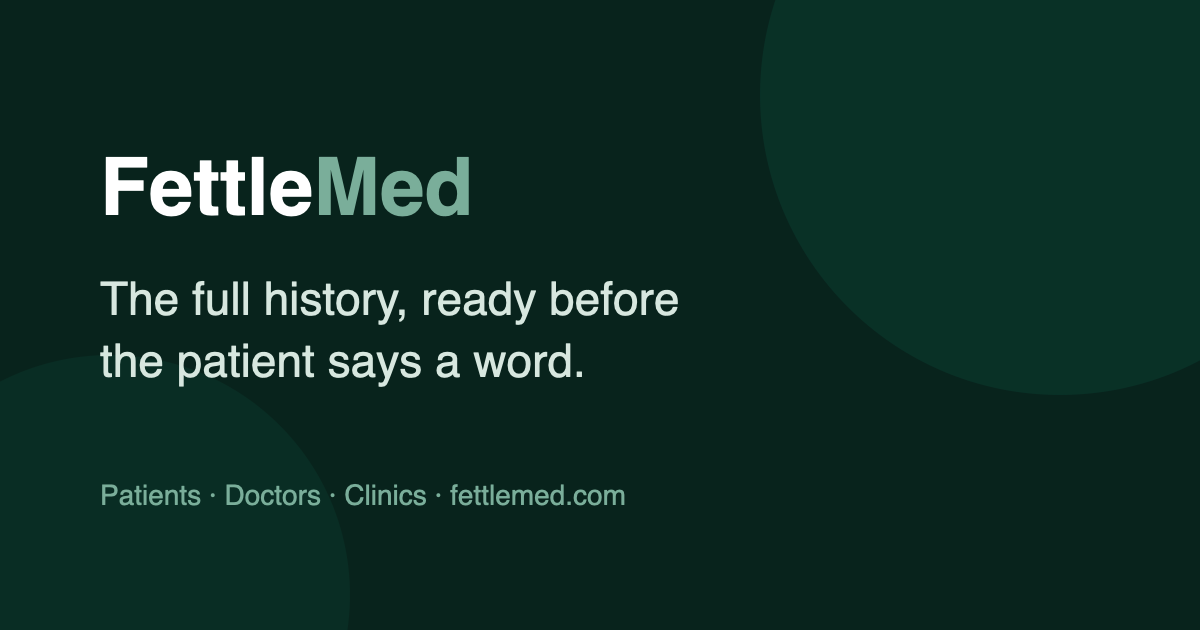
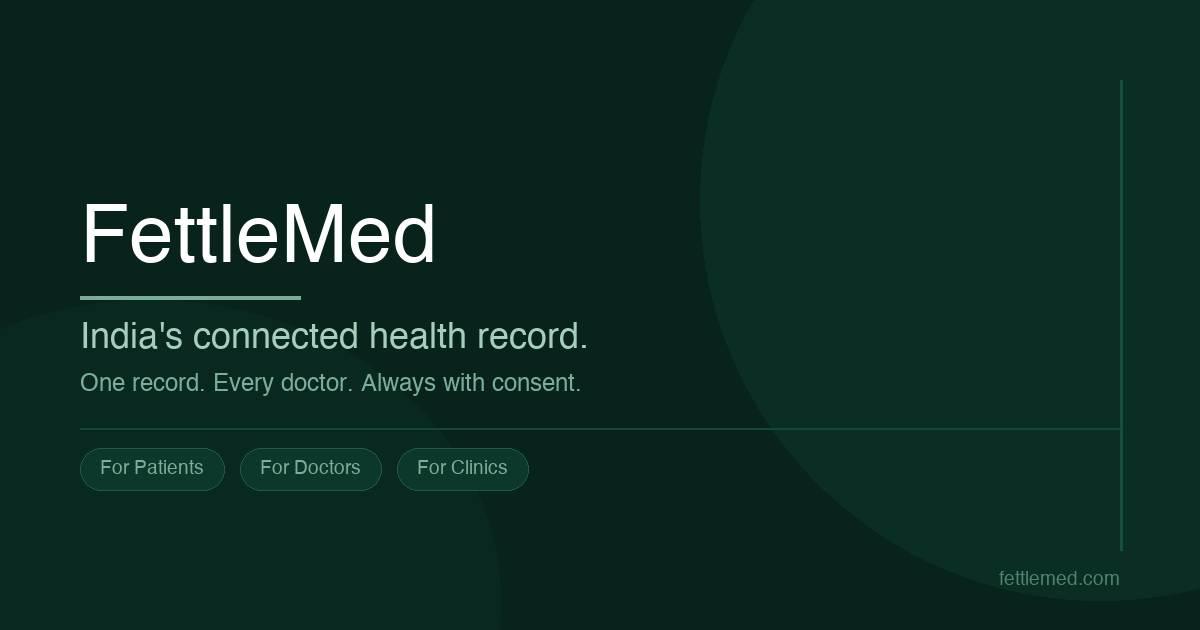
UX: unify CTAs to Join the Pilot, add OG image, strengthen nav & comparison
- Rename all CTA buttons site-wide from "Join the Waitlist" / "Join the
  Clinical Pilot" / "Join the Clinic Pilot" to "Join the Pilot" — one
  consistent name for the programme across all pages and components
- Create public/og.png (1200×630) — branded dark-green OG image for
  social sharing (Twitter/X, WhatsApp, LinkedIn cards were broken)
- Add active nav indicator: desktop NavLink gets a pine-600 underline
  bar on the current page so users always know where they are
- Strengthen ComparisonTable FettleMed column (pine-100/70 bg, pine-200
  border) and add footnote defining EMR/HIS and Health App for Indian readers
- Add Sentry TODO comment in ErrorBoundary for pre-launch wiring
- Wire trackPageView is still pending (separate task)

diff --git a/src/components/common/Layout/Layout.tsx b/src/components/common/Layout/Layout.tsx
@@ -71,8 +71,10 @@ export function Layout({ children }: { children: React.ReactNode }) {
                 end={link.path === "/"}
                 onMouseEnter={() => preloadRoutes[link.path]?.()}
                 className={({ isActive }) => cn(
-                  "text-sm font-medium tracking-wide transition-colors duration-150 ease-out whitespace-nowrap",
-                  isActive ? "text-pine-600" : "text-dim hover:text-pine-600"
+                  "text-sm font-medium tracking-wide transition-colors duration-150 ease-out whitespace-nowrap relative",
+                  isActive
+                    ? "text-pine-700 after:absolute after:bottom-[-4px] after:left-0 after:right-0 after:h-[2px] after:rounded-full after:bg-pine-600"
+                    : "text-dim hover:text-pine-600"
                 )}
               >
                 {link.name}
@@ -80,7 +82,7 @@ export function Layout({ children }: { children: React.ReactNode }) {
             ))}
             <div className="h-5 w-[1px] bg-pine-100 mx-1 lg:mx-2" />
             <Button variant="animated" onClick={() => openWaitlist(audienceRole)} className="bg-pine-900 hover:bg-pine-800 text-white rounded-lg shadow-sm text-xs lg:text-sm h-9 lg:h-10 px-4 lg:px-6 font-medium transition-colors">
-              Join Waitlist
+              Join the Pilot
             </Button>
           </nav>
 
@@ -113,7 +115,7 @@ export function Layout({ children }: { children: React.ReactNode }) {
                 </NavLink>
               ))}
               <div className="pt-6 border-t border-stone-200 flex flex-col gap-4">
-                <Button variant="animated" size="lg" onClick={() => { setIsMobileMenuOpen(false); openWaitlist(audienceRole); }} className="w-full bg-pine-900 hover:bg-pine-800 text-white rounded-xl h-14 font-medium">Join Waitlist</Button>
+                <Button variant="animated" size="lg" onClick={() => { setIsMobileMenuOpen(false); openWaitlist(audienceRole); }} className="w-full bg-pine-900 hover:bg-pine-800 text-white rounded-xl h-14 font-medium">Join the Pilot</Button>
               </div>
             </nav>
           </div>
@@ -152,7 +154,7 @@ export function Layout({ children }: { children: React.ReactNode }) {
                 <Link to="/about" className="text-sm font-medium text-pine-200 hover:text-white transition-colors">About</Link>
                 <Link to="/about#team" className="text-sm font-medium text-pine-200 hover:text-white transition-colors">Team</Link>
                 <Link to="/about#contact" className="text-sm font-medium text-pine-200 hover:text-white transition-colors">Contact</Link>
-                <Link to="/waitlist" className="text-sm font-medium text-pine-200 hover:text-white transition-colors">Join the Waitlist</Link>
+                <Link to="/waitlist" className="text-sm font-medium text-pine-200 hover:text-white transition-colors">Join the Pilot</Link>
              </nav>
 
              {/* Column 3: Legal */}

diff --git a/src/components/sections/ComparisonTable/ComparisonTable.tsx b/src/components/sections/ComparisonTable/ComparisonTable.tsx
@@ -41,8 +41,8 @@ export const ComparisonTable = ({ heading = "How FettleMed compares" }: { headin
                   <th className="text-center py-3 w-[22%] border-b border-stone-100">
                     <span className="text-[10px] font-semibold tracking-normal uppercase text-stone-400 whitespace-nowrap">Health App</span>
                   </th>
-                  <th className="text-center py-3 w-[22%] bg-pine-50/60 border-l border-r border-t border-b border-pine-100 rounded-tr-xl">
-                    <span className="text-[10px] font-semibold tracking-normal uppercase text-pine-700 whitespace-nowrap">FettleMed</span>
+                  <th className="text-center py-3 w-[22%] bg-pine-100/70 border-l border-r border-t border-b border-pine-200 rounded-tr-xl">
+                    <span className="text-[10px] font-semibold tracking-normal uppercase text-pine-800 whitespace-nowrap">FettleMed ✦</span>
                   </th>
                 </tr>
               </thead>
@@ -58,7 +58,7 @@ export const ComparisonTable = ({ heading = "How FettleMed compares" }: { headin
                     <td className="text-center px-3 py-3.5">
                       <span className="inline-flex justify-center"><StatusIcon value={app} /></span>
                     </td>
-                    <td className={`text-center px-3 py-3.5 bg-pine-50/60 border-l border-r border-pine-100 ${i === rows.length - 1 ? "border-b rounded-br-xl" : ""}`}>
+                    <td className={`text-center px-3 py-3.5 bg-pine-100/70 border-l border-r border-pine-200 ${i === rows.length - 1 ? "border-b rounded-br-xl" : ""}`}>
                       <span className="inline-flex justify-center"><StatusIcon value={fm} /></span>
                     </td>
                   </tr>
@@ -72,6 +72,9 @@ export const ComparisonTable = ({ heading = "How FettleMed compares" }: { headin
               <span className="flex items-center gap-1.5"><Minus className="w-3 h-3 text-amber-400" /> Partial</span>
               <span className="flex items-center gap-1.5"><X className="w-3 h-3 text-stone-400" /> No</span>
             </div>
+            <p className="text-[11px] text-dim-2 mt-3 leading-relaxed">
+              * EMR / HIS refers to traditional clinic management systems (e.g. Practo, Dr. Patti, hospital EMRs). Health App refers to consumer wellness apps (e.g. Apple Health, Google Fit).
+            </p>
           </div>
       </div>
     </section>

diff --git a/src/pages/About.tsx b/src/pages/About.tsx
@@ -171,7 +171,7 @@ export default function About() {
                   onClick={() => openWaitlist()}
                   className="h-12 px-8 text-base bg-white text-pine-900 hover:bg-pine-50 rounded-xl font-medium shadow-lg focus-visible:ring-2 focus-visible:ring-pine-600 focus-visible:ring-offset-2"
                 >
-                  Join the Waitlist
+                  Join the Pilot
                 </Button>
                 <a
                   href="#team"
@@ -360,7 +360,7 @@ export default function About() {
                 onClick={() => openWaitlist()}
                 className="h-12 px-10 text-base bg-white text-pine-900 hover:bg-pine-50 rounded-xl font-medium shadow-lg focus-visible:ring-2 focus-visible:ring-pine-600 focus-visible:ring-offset-2 focus-visible:ring-offset-pine-900"
               >
-                Join the Waitlist
+                Join the Pilot
               </Button>
             </FadeIn>
           </div>

diff --git a/src/pages/Waitlist.tsx b/src/pages/Waitlist.tsx
@@ -21,7 +21,7 @@ export default function Waitlist() {
 
   return (
     <>
-      <SEO title="Join the Waitlist" description="Join the FettleMed waitlist for early access. Be among the first patients, doctors, and clinics to use India's connected health record platform." />
+      <SEO title="Join the Pilot" description="Join the FettleMed pilot for early access. Be among the first patients, doctors, and clinics to use India's connected health record platform." />
       <div className="flex flex-col w-full min-h-screen bg-surface-50 font-sans relative overflow-hidden">
         {/* Static mesh gradient: calm near forms, no drift */}
         <div className="absolute inset-0 pointer-events-none" aria-hidden="true">
@@ -45,7 +45,7 @@ export default function Waitlist() {
                     Get early access to your complete health record.
                   </h1>
                   <p className="text-lg md:text-xl text-dim leading-relaxed mb-8">
-                    Join our waitlist for early access to the patient app, doctor portal, or clinic management system.
+                    Join the pilot for early access to the patient app, doctor portal, or clinic management system.
                   </p>
                   <div className="flex flex-col gap-3">
                     {[

diff --git a/src/components/common/ErrorBoundary/ErrorBoundary.tsx b/src/components/common/ErrorBoundary/ErrorBoundary.tsx
@@ -11,6 +11,8 @@ export class ErrorBoundary extends Component<Props, State> {
     return { hasError: true };
   }
 
+  // TODO(dev): wire Sentry here before production — componentDidCatch(error, info) { Sentry.captureException(error, { extra: info }); }
+
   render() {
     if (this.state.hasError) {
       return (

diff --git a/src/components/common/WaitlistModal/WaitlistForm.tsx b/src/components/common/WaitlistModal/WaitlistForm.tsx
@@ -318,7 +318,7 @@ export function WaitlistForm({ onSuccess, defaultRole }: WaitlistFormProps) {
         className="relative w-full h-14 text-lg bg-pine-900 hover:bg-pine-800 text-white rounded-xl shadow-lg font-medium disabled:opacity-70 disabled:cursor-not-allowed focus-visible:ring-2 focus-visible:ring-pine-600 focus-visible:ring-offset-2"
       >
         <span className={`transition-opacity duration-150 ${isSubmitting ? "opacity-0" : "opacity-100"}`}>
-          Join the Waitlist
+          Join the Pilot
         </span>
         {isSubmitting && (
           <span className="absolute inset-0 flex items-center justify-center">

diff --git a/src/components/sections/CTA/CTA.tsx b/src/components/sections/CTA/CTA.tsx
@@ -22,7 +22,7 @@ export const CTA = () => {
                We reach out personally when your spot opens. Not a newsletter. A conversation.
              </p>
              <Button variant="animated" size="lg" onClick={() => openWaitlist()} className="h-14 px-12 text-lg bg-white hover:bg-pine-50 text-pine-900 rounded-xl font-medium shadow-lg focus-visible:ring-2 focus-visible:ring-white focus-visible:ring-offset-2 focus-visible:ring-offset-pine-900">
-               Join the Waitlist
+               Join the Pilot
              </Button>
              <p className="mt-6 text-sm text-pine-300 font-medium">By joining, you agree to our <a href="/privacy-policy" className="underline hover:text-pine-200">Privacy Policy</a>. We will not share your details with third parties.</p>
           </FadeIn>

diff --git a/src/components/sections/ClinicManagement/ClinicHero.tsx b/src/components/sections/ClinicManagement/ClinicHero.tsx
@@ -32,7 +32,7 @@ export function ClinicHero() {
                   onClick={() => openWaitlist('Clinic')}
                   className="bg-pine-900 hover:bg-pine-800 text-white h-13 px-12 text-base rounded-xl font-medium shadow-lg focus-visible:ring-2 focus-visible:ring-pine-600 focus-visible:ring-offset-2"
                 >
-                  Join the Clinic Pilot
+                  Join the Pilot
                 </Button>
                 <p className="text-dim text-sm font-medium">Works on your existing devices. Your staff is ready on day one.</p>
                 <a

diff --git a/src/components/sections/ClinicManagement/ClinicPilot.tsx b/src/components/sections/ClinicManagement/ClinicPilot.tsx
@@ -34,7 +34,7 @@ export function ClinicPilot() {
 
              <div className="flex flex-col items-center gap-3">
                 <Button variant="animated" size="lg" onClick={() => openWaitlist('Clinic')} className="bg-white hover:bg-pine-50 text-pine-900 h-14 px-12 text-lg rounded-xl font-medium shadow-lg">
-                  Join the Clinic Pilot
+                  Join the Pilot
                 </Button>
 
                 <div className="flex flex-col sm:flex-row items-center gap-3 sm:gap-6 text-sm font-medium text-pine-300 mt-3">

diff --git a/src/components/sections/DoctorPortal/DoctorHero.tsx b/src/components/sections/DoctorPortal/DoctorHero.tsx
@@ -32,7 +32,7 @@ export function DoctorHero() {
                   onClick={() => openWaitlist('Doctor')}
                   className="bg-pine-900 hover:bg-pine-800 text-white h-14 px-12 text-lg rounded-xl font-medium shadow-lg focus-visible:ring-2 focus-visible:ring-pine-600 focus-visible:ring-offset-2"
                 >
-                  Join the Clinical Pilot
+                  Join the Pilot
                 </Button>
                 <p className="text-dim text-sm font-medium">No IT team. No specialised hardware. Setup in one session.</p>
                 <a

diff --git a/src/components/sections/DoctorPortal/DoctorPilot.tsx b/src/components/sections/DoctorPortal/DoctorPilot.tsx
@@ -60,7 +60,7 @@ export function DoctorPilot() {
 
              <div className="flex flex-col items-center gap-3">
                 <Button variant="animated" size="lg" onClick={() => openWaitlist('Doctor')} className="bg-white hover:bg-pine-50 text-pine-900 h-14 px-12 text-lg rounded-xl font-medium shadow-lg">
-                  Join the Clinical Pilot
+                  Join the Pilot
                 </Button>
                 <p className="text-pine-300 text-sm font-medium">For your practice. Limited spots available.</p>
                 <p className="text-sm font-medium text-pine-300 mt-3">Works on the device you already have.</p>

diff --git a/src/components/sections/Hero/Hero.tsx b/src/components/sections/Hero/Hero.tsx
@@ -44,7 +44,7 @@ export const Hero = () => {
                   onClick={() => openWaitlist()}
                   className="w-full sm:w-auto h-14 px-10 text-lg bg-pine-900 hover:bg-pine-800 text-white rounded-xl font-medium shadow-lg focus-visible:ring-2 focus-visible:ring-pine-600 focus-visible:ring-offset-2"
                 >
-                  Join the Waitlist
+                  Join the Pilot
                 </Button>
               </div>
             </FadeIn>